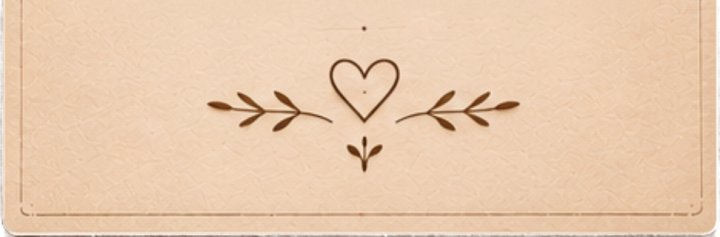
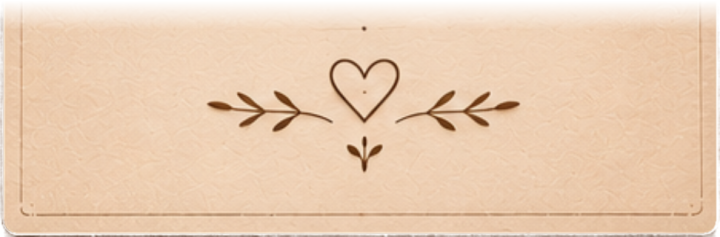
Zweig unter der Türchen-Nummer, chinesischer Text mittig
Claude-Session: https://claude.ai/code/session_01Th1ZwhDaFACmJguCpPspif

Changed region(s): [[0.0, 0.0, 1.0, 0.0886]]

diff --git a/index.html b/index.html
@@ -114,7 +114,7 @@
     min-height: 100cqw; padding: 29cqw 12.5cqw 33cqw;
   }
   .card .paper-mid {
-    position: absolute; left: 0; right: 0; top: 50cqw; bottom: 25cqw; z-index: -2;
+    position: absolute; left: 0; right: 0; top: 50cqw; bottom: 20cqw; z-index: -2;
     background: url('karte-mitte.png') top center / 100% auto repeat-y;
   }
   .card .paper-top, .card .paper-bottom { position: absolute; left: 0; width: 100%; z-index: -1; display: block; }
@@ -124,13 +124,11 @@
     font-family: 'Cormorant Garamond', serif; font-weight: 500;
     letter-spacing: .3em; font-size: 5.6cqw; margin: 0 0 3cqw; padding-left: .3em;
   }
-  .divider { width: 18cqw; height: 1px; background: #3a2414; margin: 0 auto 6cqw; position: relative; }
-  .divider::after { content: ""; position: absolute; left: 50%; top: -.6cqw; width: 1.3cqw; height: 1.3cqw;
-    background: #3a2414; border-radius: 50%; transform: translateX(-50%); }
+  .divider { display: block; width: 24cqw; margin: 0 auto 5.5cqw; opacity: .95; }
   .text { font-family: 'EB Garamond', Georgia, serif; font-size: 4.6cqw; line-height: 1.28; letter-spacing: .03em; }
   .text p { margin: 0 0 3.4cqw; }
   .text em { font-style: italic; }
-  .text .zh { font-family: 'Noto Serif SC', serif; font-size: 5.4cqw; letter-spacing: .16em; margin: 5cqw 0 0; }
+  .text .zh { font-family: 'Noto Serif SC', serif; font-size: 5.4cqw; letter-spacing: .16em; padding-left: .16em; margin: 5cqw 0 0; }
 </style>
 </head>
 <body>
@@ -159,7 +157,7 @@
       <img class="paper-top" src="karte-oben.png" alt="">
       <img class="paper-bottom" src="karte-unten.png" alt="">
       <h2 id="title">TÜRCHEN NR. 1</h2>
-      <div class="divider"></div>
+      <img class="divider" src="zweig.png" alt="">
       <div class="text" id="text"></div>
     </div>
   </div>
@@ -233,7 +231,7 @@ function addStar(parent, leftPct, topPct, sizePx) {
   parent.appendChild(s);
 }
 
-['karte-oben.png','karte-mitte.png','karte-unten.png'].forEach(u => { const i = new Image(); i.src = u; });
+['karte-oben.png','karte-mitte.png','karte-unten.png','zweig.png'].forEach(u => { const i = new Image(); i.src = u; });
 
 const REPO = 'justynagladysz-star/Advent-';
 async function findImage() {
@@ -321,6 +319,8 @@ function tapDoor(d, btn) {
 function openCard(d) {
   document.getElementById('title').textContent = 'TÜRCHEN NR. ' + d;
   document.getElementById('text').innerHTML = messages[d] || '';
+  // chinesisches Fragezeichen hat rechts Leerraum: durch schmales ersetzen, damit alles mittig steht
+  document.querySelectorAll('#text .zh').forEach(el => el.innerHTML = el.innerHTML.replace(/？/g, '?').replace(/！/g, '!'));
   overlay.classList.add('show');
   overlay.scrollTop = 0;
 }
